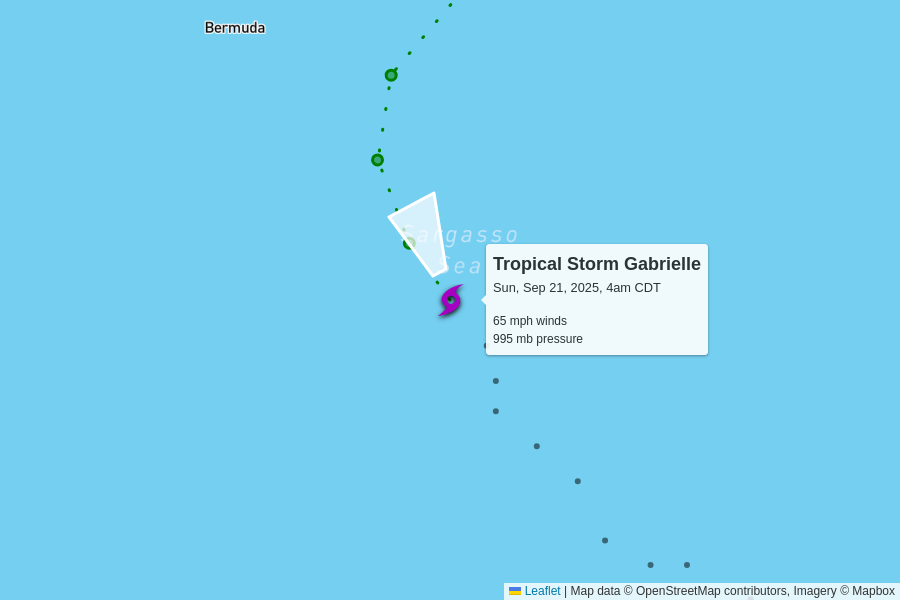
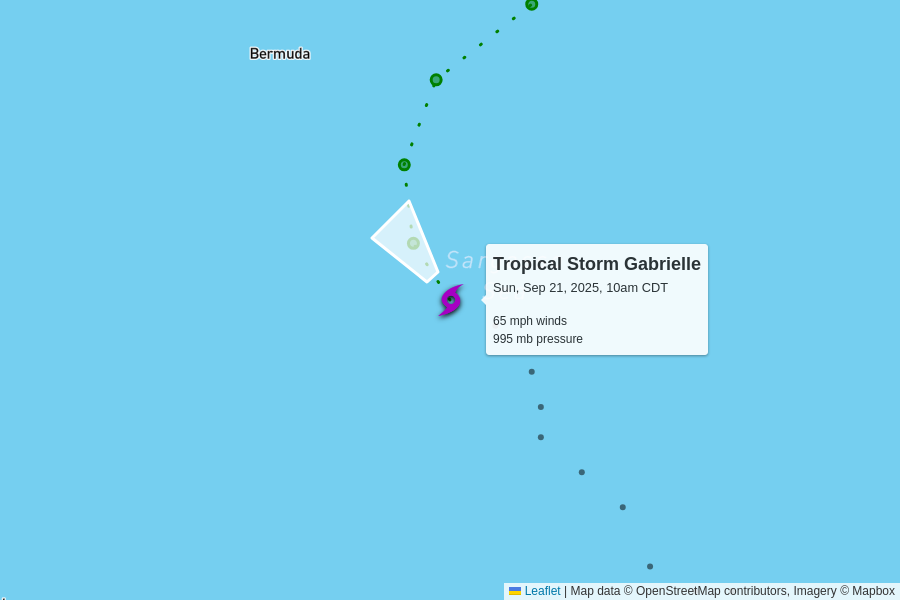
automatic update

diff --git a/docs/index.html b/docs/index.html
@@ -102,7 +102,7 @@
         <td colspan="6" class="storm category-0" >
           <h2>
             Tropical Storm Gabrielle
-            <p class="updated">last updated <span data-time>2025-09-21T09:00:00.000Z</span></p>
+            <p class="updated">last updated <span data-time>2025-09-21T15:00:00.000Z</span></p>
           </h2>
         </td>
       </tr>
@@ -118,11 +118,11 @@
       <tr>
         <td class="spacer"></td>
         <td>65 mph<br>0 mph since last update</td>
-        <td>995 mb<br>-1 mb since last update</td>
+        <td>995 mb<br>0 mb since last update</td>
         <td>
-          9 mph to the north-northwest
+          12 mph to the northwest
           <br/>
-          <span style="display: inline-block; font-size: 1.5em; transform: rotate(335deg);">↑</span>
+          <span style="display: inline-block; font-size: 1.5em; transform: rotate(320deg);">↑</span>
         </td>
         <td><a href="https://raw.githubusercontent.com/mgwalker/atlantic-hurricanes/main/data/csv/AL072025.csv">AL072025.csv</a></td>
         <td><a href="https://www.nhc.noaa.gov/archive/2025/GABRIELLE.shtml?">NHC advisories</a></td>
